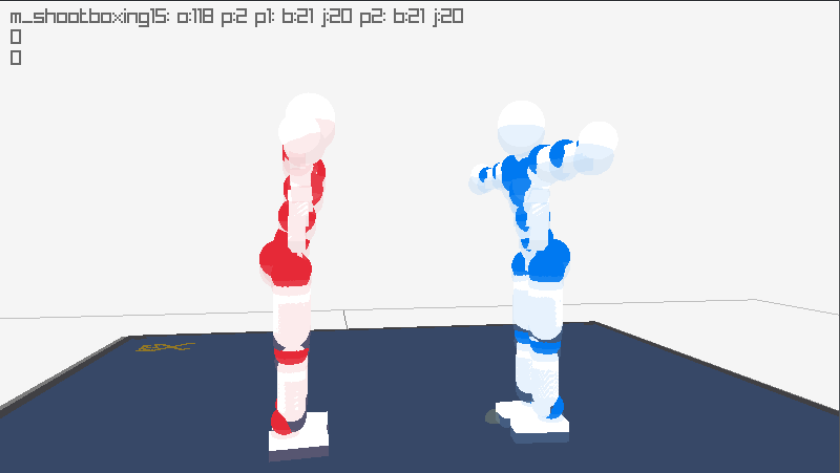
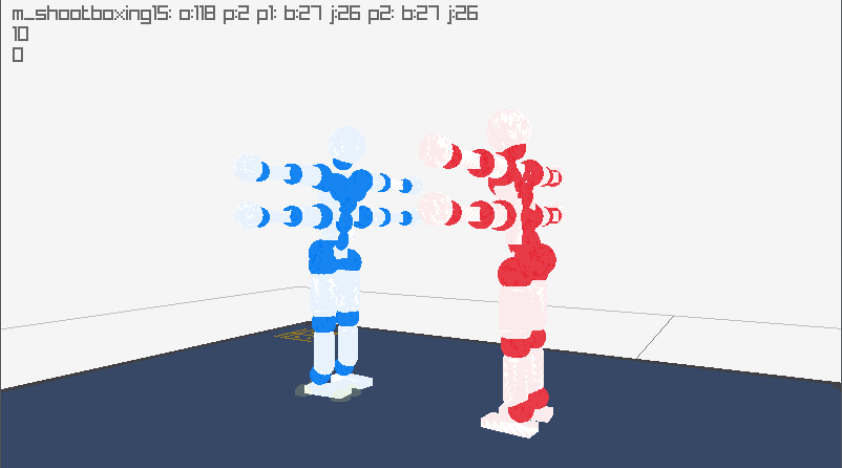
Added preview image

diff --git a/tobas/index.html b/tobas/index.html
@@ -1,12 +1,17 @@
 <!DOCTYPE html>
 <html>
 	<head>
-		<link rel="stylesheet" href="stylesheet.css">
 		<title>TOBAS</title>
+		<link rel="stylesheet" href="stylesheet.css">
 	</head>
 	<body>
+		<div id="overview">
 		<h1>What is TOBAS</h1>
-		<p>TOBAS aims to be a clone of Toribash with extra features the Toribash developers think that they aren't worth working on.</p>
-		<a href="https://github.com/xMajedz/tobas/releases">Download</a>
+		<p>TOBAS aims to be a clone of Toribash with extra features the Toribash developers think that they aren't worth working on like: Multiaxis and Extra Joints</p>
+		<img src="./previews/prealpha1-preview1.png">
+		<a href="https://github.com/xMajedz/tobas/releases">
+		Download
+		</a>
+		</div>
 	</body>
 </html>

diff --git a/tobas/stylesheet.css b/tobas/stylesheet.css
@@ -1,13 +1,14 @@
-body {
+body
+{
   background-color: black;
+  color: white;
 }
 
-h1 {
-  color: white;
+#overview
+{
+  display: flex;
+  flex-direction: column;
+  align-items: center;
   text-align: center;
-}
-
-p {
-  color: white;
   font-size: 20px;
 }
